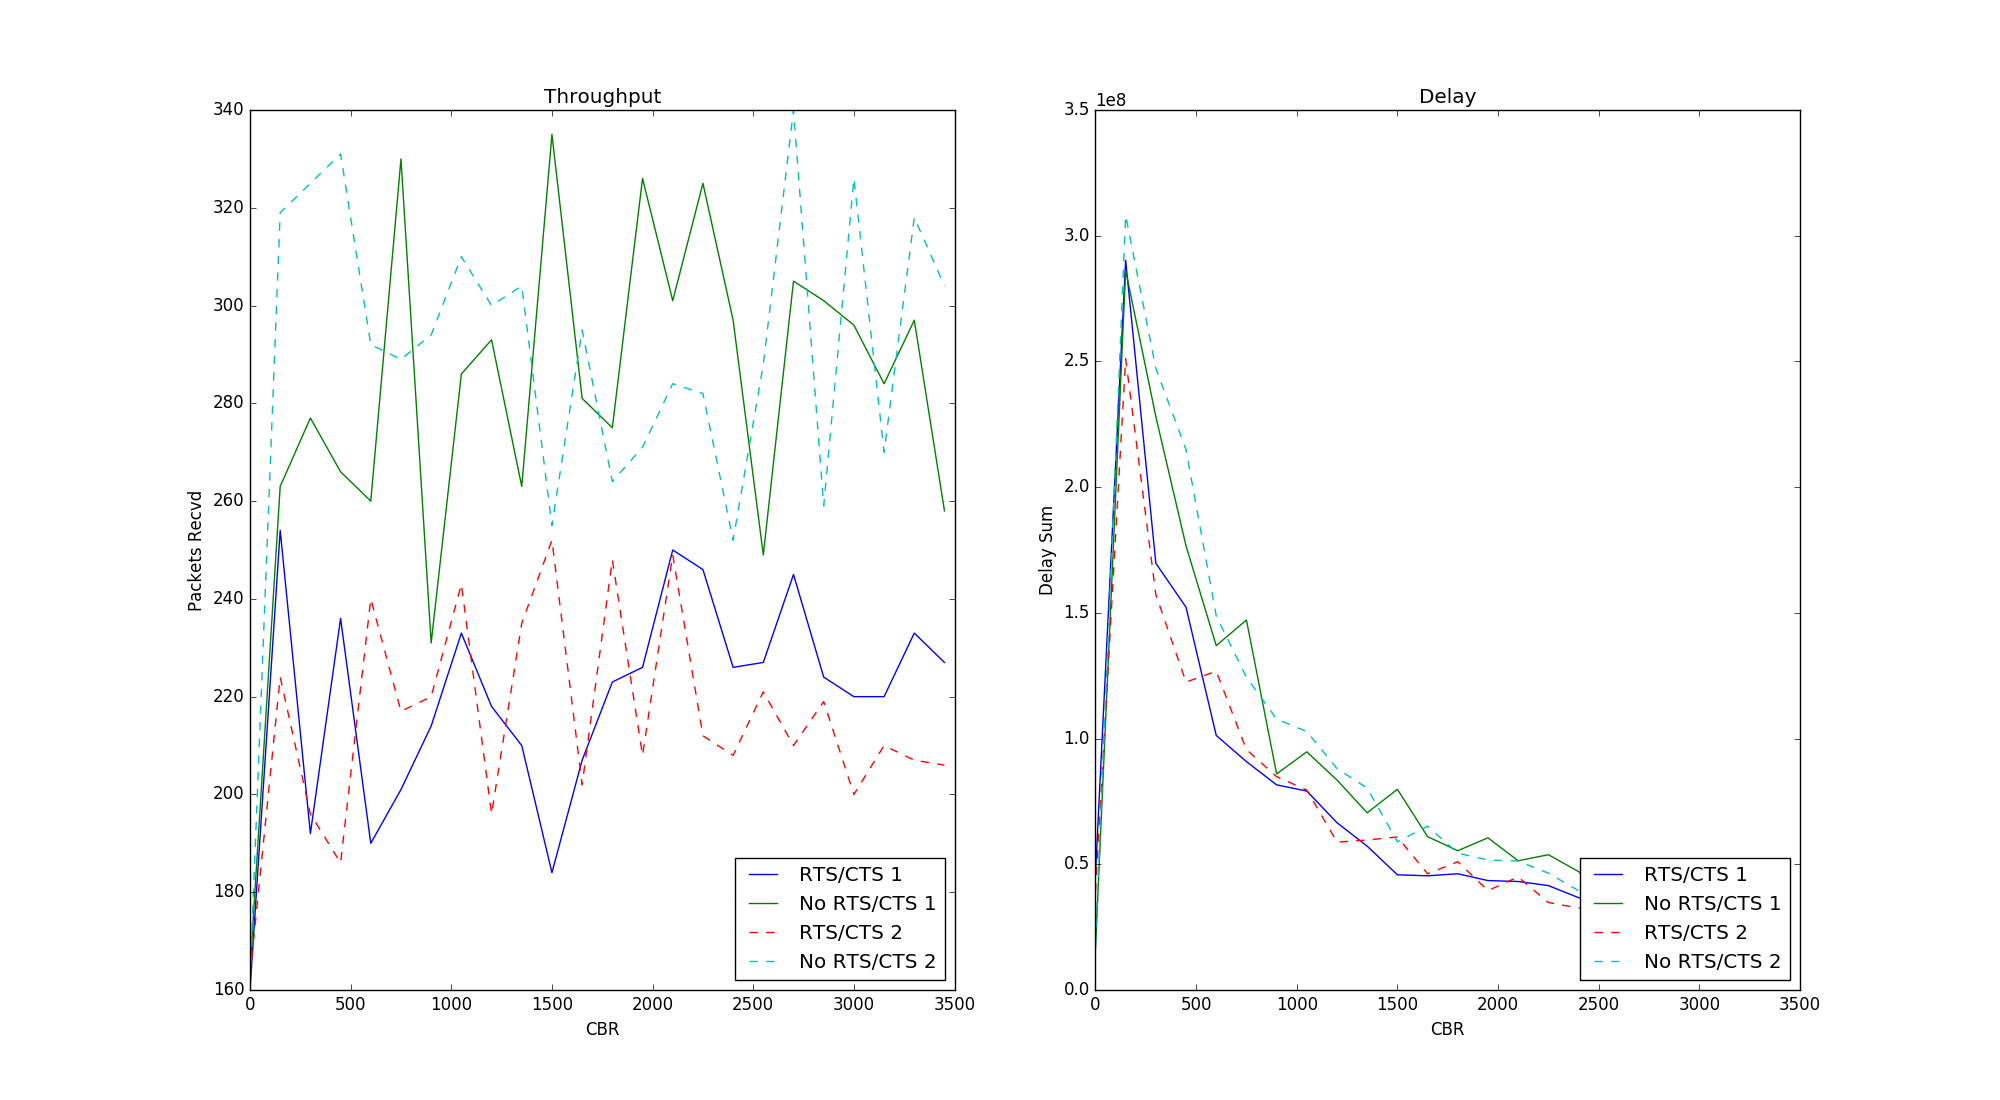
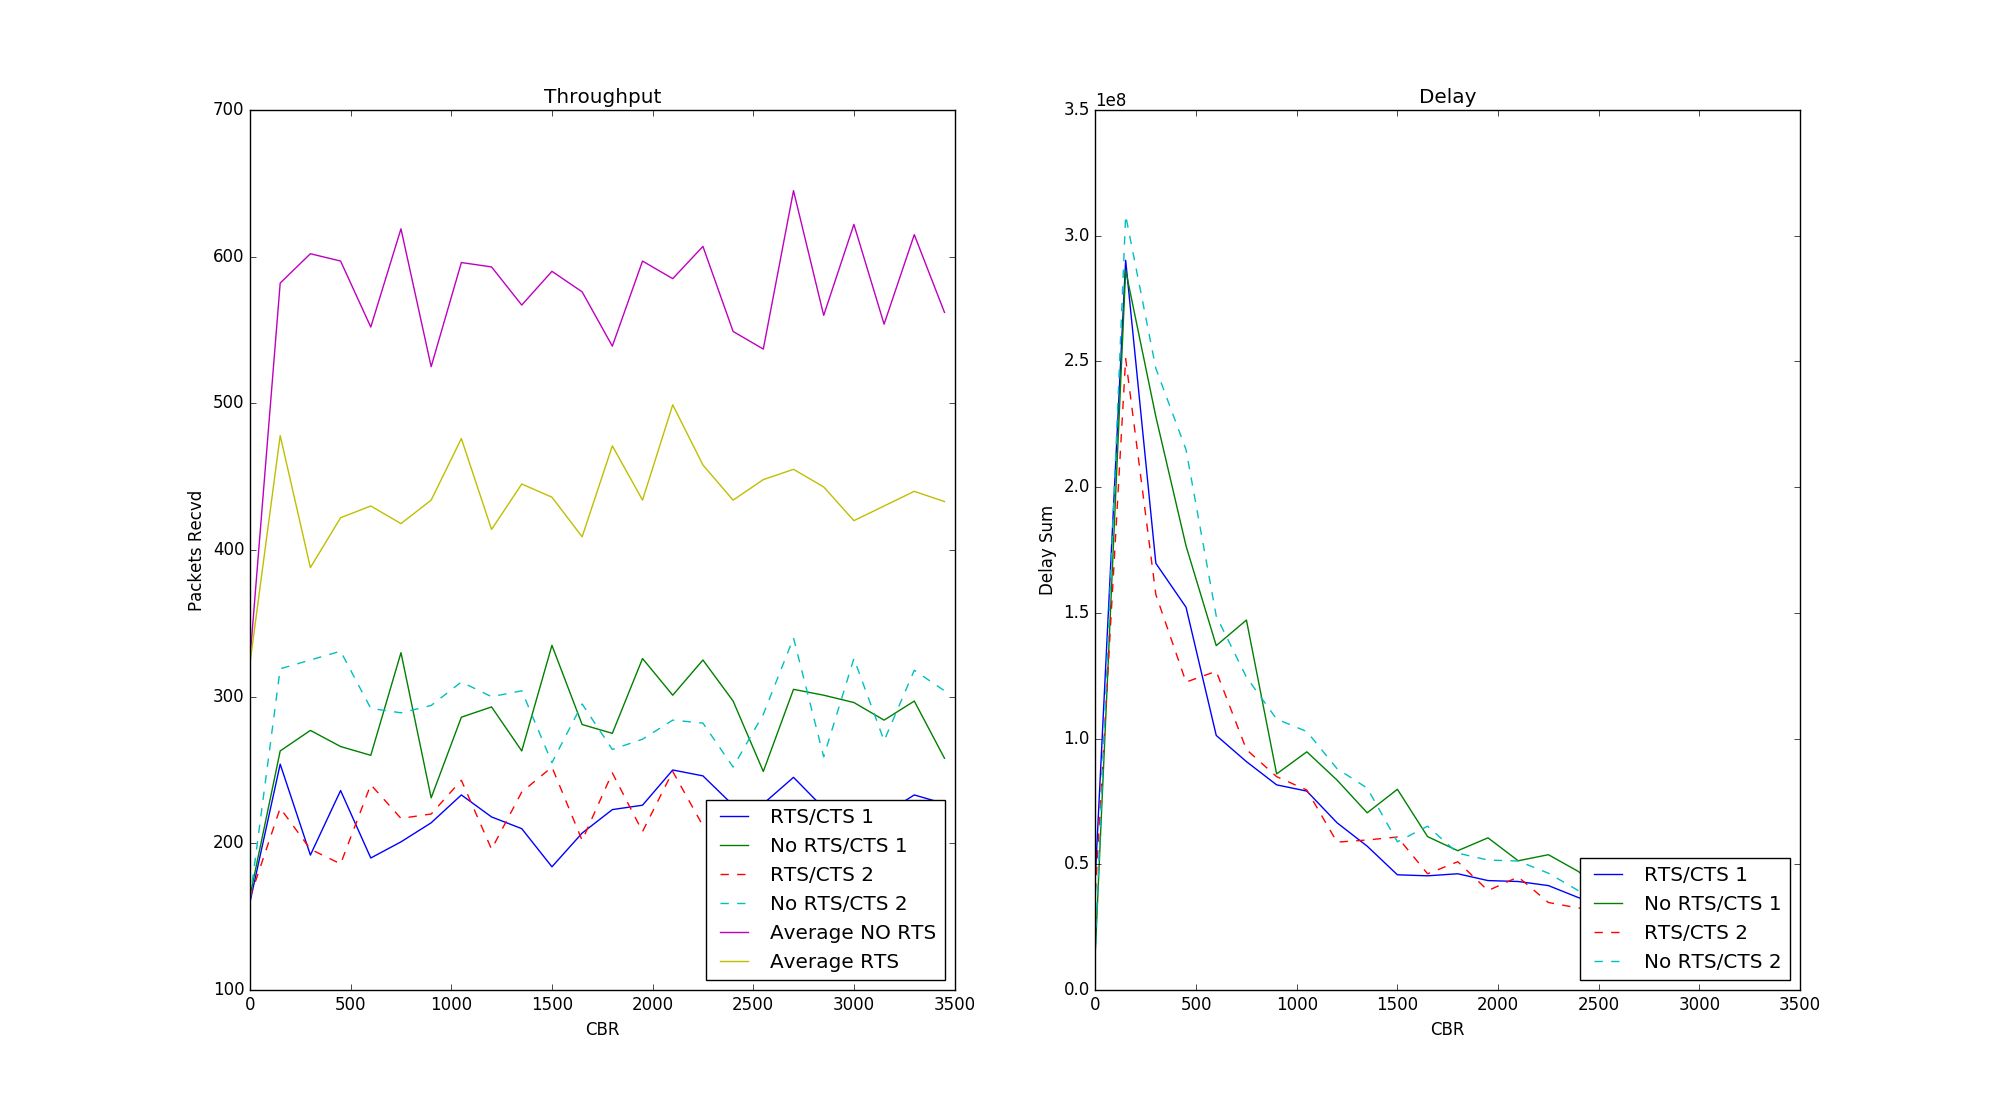
changes

diff --git a/two_/make_graph.py b/two_/make_graph.py
@@ -52,6 +52,8 @@ def part():
     plt.plot(x,norts0, label="No RTS/CTS 1", )
     plt.plot(x,rts1, '--',label="RTS/CTS 2")
     plt.plot(x,norts1, '--',label="No RTS/CTS 2", )
+    plt.plot(x,map(lambda xy: xy[0]+xy[1], zip(norts0,norts1)), label="Average NO RTS")
+    plt.plot(x,map(lambda xy: xy[0]+xy[1], zip(rts0,rts1)), label="Average RTS")
 
     plt.title("Throughput")
     plt.xlabel("CBR")

diff --git a/one_/one.cc b/one_/one.cc
@@ -160,6 +160,8 @@ void run_experiment_1b (bool do_rts, int cbr, int seconds, std::string log_name)
   YansWifiPhyHelper phy = YansWifiPhyHelper::Default();
   phy.SetChannel(chan.Create());
 
+  phy.Set("TxGain", DoubleValue(-3.0));
+
   //WifiHelper wifi = WifiHelper::Default();
   WifiHelper wifi;
   wifi.SetStandard (WIFI_PHY_STANDARD_80211b);
